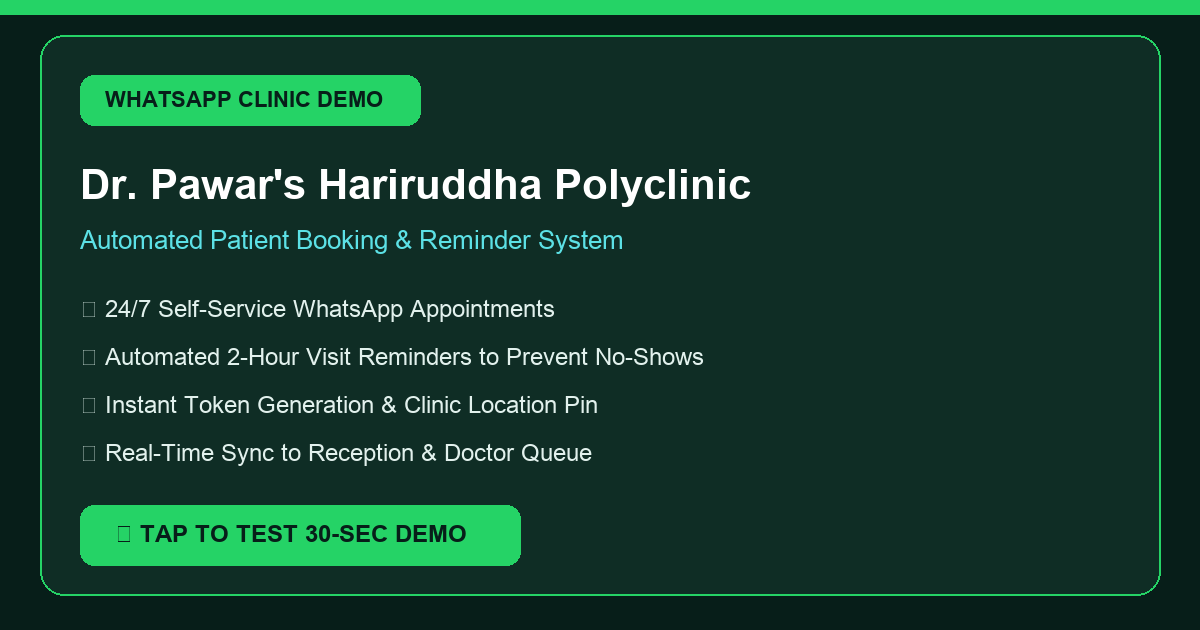
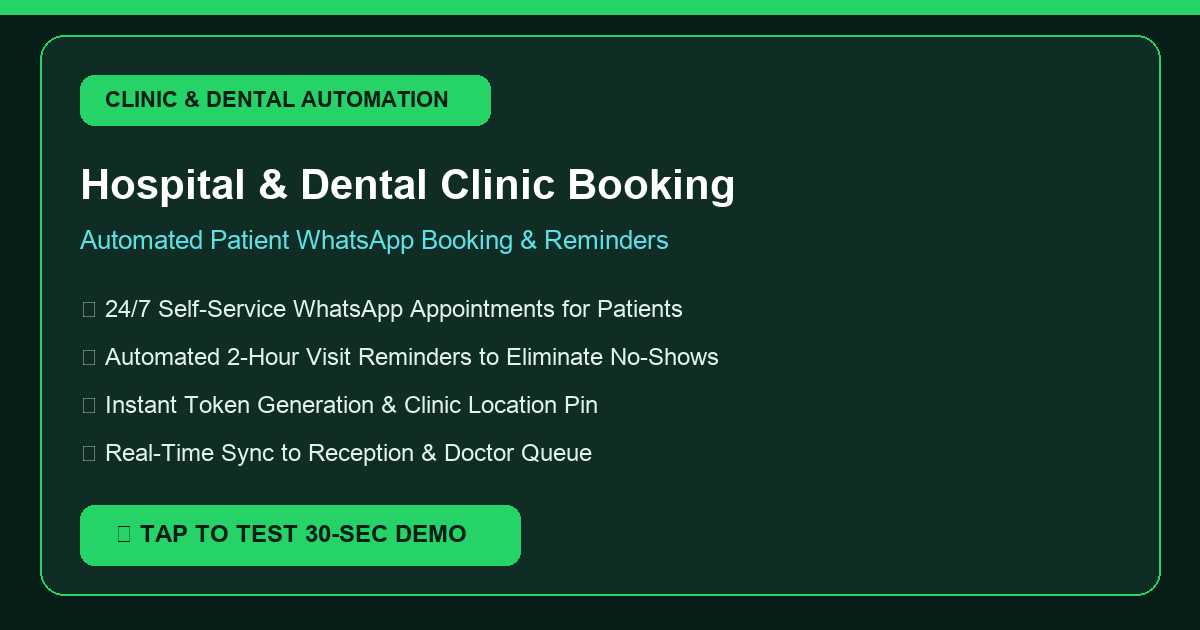
feat: make appointment demo generic for dental & healthcare clinics with dynamic name support

diff --git a/index.html b/index.html
@@ -3,17 +3,16 @@
 <head>
   <meta charset="UTF-8" />
   <meta name="viewport" content="width=device-width, initial-scale=1.0, maximum-scale=1.0, user-scalable=no" />
-  <title>Dr. Pawar's Hariruddha Polyclinic — WhatsApp Appointment Automation Demo</title>
+  <title>City Dental & Healthcare Clinic — WhatsApp Appointment Automation Demo</title>
   
   <!-- WhatsApp & Social Link Preview Metadata -->
-  <meta name="title" content="Dr. Pawar's Hariruddha Polyclinic — Automated WhatsApp Booking Demo" />
+  <meta name="title" content="Clinic & Dental WhatsApp Appointment Automation Demo" />
   <meta name="description" content="Interactive 30-second preview: See how 24/7 patient booking, token generation, and automated visit reminders work on WhatsApp." />
   <meta property="og:type" content="website" />
-  <meta property="og:title" content="Dr. Pawar's Hariruddha Polyclinic — WhatsApp Appointment Automation" />
+  <meta property="og:title" content="Clinic & Dental WhatsApp Appointment Automation" />
   <meta property="og:description" content="Instant patient booking, token generation, and no-show reminder alerts on WhatsApp. Tap to test live demo." />
-  <meta property="og:image" content="https://rohitjaiswar123.github.io/client-demo/preview.png" />
-  <meta property="og:url" content="https://rohitjaiswar123.github.io/client-demo/" />
-  <meta property="og:site_name" content="Hariruddha Polyclinic" />
+  <meta property="og:image" content="preview.png" />
+  <meta property="og:site_name" content="Smart Clinic & Dental Care" />
   <meta name="theme-color" content="#075e54" />
 
   <!-- Tailwind CSS via CDN -->
@@ -119,9 +118,9 @@
         <div>
           <div class="flex items-center gap-1.5">
             <h1 class="text-xs font-semibold uppercase tracking-wider text-emerald-400">Live Client Preview</h1>
-            <span class="bg-emerald-500/20 text-emerald-300 text-[10px] px-1.5 py-0.5 rounded-full font-medium">Interactive</span>
+            <span class="bg-emerald-500/20 text-emerald-300 text-[10px] px-1.5 py-0.5 rounded-full font-medium">Interactive Demo</span>
           </div>
-          <p class="text-sm font-bold text-slate-100">Dr. Pawar's Hariruddha Polyclinic</p>
+          <p id="topClinicName" class="text-sm font-bold text-slate-100">City Dental & Healthcare Clinic</p>
         </div>
       </div>
 
@@ -164,9 +163,9 @@
           <span class="font-semibold text-slate-200">WhatsApp • Just now</span>
           <span class="text-[10px] text-emerald-400 font-medium">Automatic Alert</span>
         </div>
-        <p class="text-xs font-bold text-white truncate">Dr. Pawar's Hariruddha Polyclinic</p>
+        <p id="notifClinicName" class="text-xs font-bold text-white truncate">City Dental & Healthcare Clinic</p>
         <p class="text-[11px] text-slate-300 line-clamp-2 mt-0.5">
-          ⏰ <strong>Reminder:</strong> Your appointment with Dr. Pawar is scheduled in 2 hours (Today at 6:30 PM, Token #A-14).
+          ⏰ <strong>Reminder:</strong> Your appointment is scheduled in 2 hours (Today at 6:30 PM, Token #A-14).
         </p>
       </div>
       <button onclick="closeNotification()" class="text-slate-400 hover:text-white">
@@ -191,8 +190,8 @@
           
           <!-- Clinic Avatar -->
           <div class="relative">
-            <div class="w-10 h-10 rounded-full bg-emerald-100 border-2 border-white/80 flex items-center justify-center text-emerald-800 font-bold text-base shadow-sm">
-              HP
+            <div id="avatarInitials" class="w-10 h-10 rounded-full bg-emerald-100 border-2 border-white/80 flex items-center justify-center text-emerald-800 font-bold text-sm shadow-sm">
+              CD
             </div>
             <span class="absolute bottom-0 right-0 w-3 h-3 bg-emerald-400 border-2 border-[#075E54] rounded-full"></span>
           </div>
@@ -200,7 +199,7 @@
           <!-- Clinic Details -->
           <div class="leading-tight">
             <div class="flex items-center gap-1">
-              <h2 class="text-sm font-semibold tracking-wide truncate max-w-[190px]">Dr. Pawar's Polyclinic</h2>
+              <h2 id="waHeaderTitle" class="text-sm font-semibold tracking-wide truncate max-w-[190px]">City Dental & Clinic</h2>
               <!-- Verified green badge -->
               <span class="text-emerald-300" title="Verified WhatsApp Business Account">
                 <i data-lucide="badge-check" class="w-4 h-4 fill-emerald-500 text-white"></i>
@@ -245,13 +244,13 @@
         <div class="wa-bubble-in max-w-[88%] p-3 self-start">
           <div class="flex items-center gap-1.5 mb-1 text-[11px] font-bold text-emerald-800">
             <i data-lucide="building-2" class="w-3.5 h-3.5"></i>
-            <span>DR. PAWAR'S HARIRUDDHA POLYCLINIC</span>
+            <span id="welcomeClinicBanner">CITY DENTAL & HEALTHCARE CLINIC</span>
           </div>
           <p class="text-xs text-slate-800 leading-relaxed">
             Namaste! 🙏 Welcome to our automated appointment and patient care desk.
           </p>
           <p class="text-xs text-slate-700 mt-1.5 leading-relaxed">
-            You can book consultations, view timings, check token status, or get clinic directions anytime 24/7.
+            You can book dental checkups, consultations, view timings, check token status, or get clinic directions anytime 24/7.
           </p>
 
           <!-- Interactive Action Buttons -->
@@ -275,7 +274,7 @@
             <button onclick="quickAction('doctors')" class="w-full text-left text-xs font-semibold py-1.5 px-2.5 rounded-lg bg-slate-50 hover:bg-slate-100 text-slate-700 flex items-center justify-between border border-slate-200 transition">
               <span class="flex items-center gap-1.5">
                 <i data-lucide="stethoscope" class="w-3.5 h-3.5"></i>
-                Consultant Doctors
+                Doctors & Specialists
               </span>
               <i data-lucide="chevron-right" class="w-3.5 h-3.5"></i>
             </button>
@@ -353,7 +352,7 @@
             </div>
             <div>
               <h2 class="text-sm font-bold">Doctor & Reception Portal</h2>
-              <p class="text-[11px] text-slate-400">Dr. Pawar's Hariruddha Polyclinic</p>
+              <p id="deskClinicSub" class="text-[11px] text-slate-400">City Dental & Healthcare Clinic</p>
             </div>
           </div>
           <button onclick="toggleView()" class="text-xs bg-slate-800 hover:bg-slate-700 border border-slate-700 px-2.5 py-1.5 rounded-lg text-emerald-400 font-medium flex items-center gap-1 transition">
@@ -412,7 +411,7 @@
               </div>
               <div>
                 <p class="text-xs font-bold text-slate-900">Rajesh Sharma</p>
-                <p class="text-[11px] text-slate-500">Dr. Pawar • 05:30 PM (Evening)</p>
+                <p class="text-[11px] text-slate-500">Dental Checkup & Scaling • 05:30 PM</p>
               </div>
             </div>
             <div class="text-right">
@@ -432,7 +431,7 @@
               </div>
               <div>
                 <p class="text-xs font-bold text-slate-900">Sunita Patil</p>
-                <p class="text-[11px] text-slate-500">Child Health & Fever • 06:00 PM</p>
+                <p class="text-[11px] text-slate-500">General Physician Consultation • 06:00 PM</p>
               </div>
             </div>
             <div class="text-right">
@@ -448,11 +447,11 @@
 
         </div>
 
-        <!-- Value Proposition Notice for Dr. Pawar -->
+        <!-- Value Proposition Notice for Clinic & Dental Owners -->
         <div class="mt-auto bg-emerald-50 border border-emerald-200 rounded-xl p-3 text-xs text-emerald-900 leading-relaxed">
           <div class="font-bold flex items-center gap-1.5 text-emerald-800 mb-1">
             <i data-lucide="check-circle" class="w-4 h-4 text-emerald-600"></i>
-            How this saves clinic staff 2–3 hours every day:
+            How this saves clinic & dental staff 2–3 hours every day:
           </div>
           <ul class="list-disc list-inside space-y-1 text-[11px] text-emerald-800">
             <li><strong>Zero manual calls:</strong> Patients select available slots on WhatsApp.</li>
@@ -466,17 +465,17 @@
 
   </main>
 
-  <!-- Doctor Pitch Footer Banner -->
+  <!-- Pitch Footer Banner -->
   <footer class="w-full max-w-md sm:max-w-xl mt-3 sm:mt-4 px-3 pb-4 text-center">
     <div class="bg-slate-800/80 border border-slate-700/60 rounded-xl p-3 text-xs text-slate-300 flex flex-col sm:flex-row items-center justify-between gap-2.5">
       <div class="text-left">
-        <span class="text-emerald-400 font-semibold">Custom built for Dr. Pawar's Polyclinic</span>
+        <span class="text-emerald-400 font-semibold">Clinic & Dental Appointment Automation</span>
         <p class="text-[11px] text-slate-400">Ready to activate on your existing clinic WhatsApp number.</p>
       </div>
-      <a href="https://wa.me/918454805311?text=Hi%20Dr.%20Pawar,%20sharing%20the%20automation%20preview%20link." target="_blank" class="bg-[#25D366] hover:bg-[#20ba59] text-slate-900 font-bold px-3.5 py-1.5 rounded-lg text-xs flex items-center gap-1.5 transition shadow-sm shrink-0">
-        <i data-lucide="message-square" class="w-3.5 h-3.5 fill-slate-900"></i>
-        <span>Share Preview Link</span>
-      </a>
+      <button onclick="shareDemoLink()" class="bg-[#25D366] hover:bg-[#20ba59] text-slate-900 font-bold px-3.5 py-1.5 rounded-lg text-xs flex items-center gap-1.5 transition shadow-sm shrink-0">
+        <i data-lucide="share-2" class="w-3.5 h-3.5"></i>
+        <span>Share Demo Link</span>
+      </button>
     </div>
   </footer>
 
@@ -485,13 +484,29 @@
     // Initialize icons
     lucide.createIcons();
 
+    // Support dynamic custom clinic name via ?name= or ?clinic= URL param
+    const urlParams = new URLSearchParams(window.location.search);
+    const customClinicName = urlParams.get('name') || urlParams.get('clinic') || 'City Dental & Healthcare Clinic';
+    const customShortName = urlParams.get('short') || (customClinicName.length > 22 ? customClinicName.substring(0, 20) + '...' : customClinicName);
+
+    // Apply custom or default generic name
+    document.getElementById('topClinicName').innerText = customClinicName;
+    document.getElementById('waHeaderTitle').innerText = customShortName;
+    document.getElementById('welcomeClinicBanner').innerText = customClinicName.toUpperCase();
+    document.getElementById('deskClinicSub').innerText = customClinicName;
+    document.getElementById('notifClinicName').innerText = customClinicName;
+
+    // Set avatar initials
+    const initials = customClinicName.split(' ').map(w => w[0]).filter(Boolean).slice(0, 2).join('').toUpperCase() || 'CD';
+    document.getElementById('avatarInitials').innerText = initials;
+
     // Set initial timestamp
     const now = new Date();
     const timeString = now.toLocaleTimeString([], { hour: '2-digit', minute: '2-digit' });
     document.getElementById('initialTime').innerText = timeString;
 
     let bookingState = {
-      doctor: 'Dr. Pawar (Senior Consultant)',
+      doctor: 'Dental Surgeon / Dentist',
       day: 'Today (Evening)',
       slot: '06:30 PM',
       patientName: 'Ramesh Kadam',
@@ -542,14 +557,14 @@
       input.value = '';
 
       const lower = text.toLowerCase();
-      if (lower.includes('book') || lower.includes('appointment') || lower.includes('doctor') || lower.includes('slot')) {
+      if (lower.includes('book') || lower.includes('appointment') || lower.includes('doctor') || lower.includes('dentist') || lower.includes('slot')) {
         setTimeout(() => startBookingFlow(), 700);
       } else if (lower.includes('time') || lower.includes('timing') || lower.includes('open') || lower.includes('address') || lower.includes('location')) {
         setTimeout(() => showTimings(), 700);
       } else {
         showBotTyping(() => {
           appendBotMessage(`
-            Thank you for reaching out to Dr. Pawar's Hariruddha Polyclinic!
+            Thank you for reaching out to <strong>${customClinicName}</strong>!
             <br/><br/>
             Would you like to:
             <br/>• <strong>Book an appointment</strong> (type 1)
@@ -634,16 +649,16 @@
       lucide.createIcons();
     }
 
-    // Step 1: Booking - Select Doctor
+    // Step 1: Booking - Select Doctor / Service
     function startBookingFlow() {
       appendUserMessage("Book an Appointment");
       showBotTyping(() => {
         appendBotMessage(`
-          <strong>Step 1 of 3:</strong> Which consultant or service do you need?
+          <strong>Step 1 of 3:</strong> Which service or consultant do you need?
         `, [
-          { text: "👨⚕ Dr. Pawar (General Medicine & Consultant)", action: "selectDoctor('Dr. Pawar')" },
-          { text: "👶 Pediatric & Child Care", action: "selectDoctor('Pediatric / Child Care')" },
-          { text: "🩸 Lab Tests / Routine Checkup", action: "selectDoctor('General Checkup')" }
+          { text: "🦷 Dental Care / Dentist (Cleaning, Pain, Braces)", action: "selectDoctor('Senior Dental Surgeon')" },
+          { text: "👨⚕ General Physician (Consultation & Fever)", action: "selectDoctor('Consulting Physician')" },
+          { text: "🩺 Routine Health Checkup & Specialist", action: "selectDoctor('Specialist Care')" }
         ]);
       });
     }
@@ -676,7 +691,7 @@
           <div class="bg-slate-50 p-2.5 rounded-lg border border-slate-200 mt-2 text-slate-700">
             <div>👤 <strong>Patient:</strong> Ramesh Kadam</div>
             <div>📱 <strong>Mobile:</strong> +91 98201 12345</div>
-            <div>🏥 <strong>Doctor:</strong> ${bookingState.doctor}</div>
+            <div>🏥 <strong>Doctor/Service:</strong> ${bookingState.doctor}</div>
           </div>
         `, [
           { text: "✅ Confirm & Generate Token", action: "confirmBooking()" },
@@ -698,7 +713,7 @@
             <span>APPOINTMENT CONFIRMED!</span>
           </div>
           <p class="text-[11px] text-slate-600 mb-2">
-            Your appointment has been registered at Dr. Pawar's Hariruddha Polyclinic.
+            Your appointment has been registered at <strong>${customClinicName}</strong>.
           </p>
 
           <!-- Ticket Box -->
@@ -716,7 +731,7 @@
 
             <div class="space-y-1 text-xs">
               <div class="flex justify-between">
-                <span class="text-slate-500">Doctor:</span>
+                <span class="text-slate-500">Service:</span>
                 <span class="font-semibold text-slate-800">${bookingState.doctor}</span>
               </div>
               <div class="flex justify-between">
@@ -731,7 +746,7 @@
 
             <div class="mt-2.5 pt-2 border-t border-emerald-200 text-[10px] text-slate-600 flex items-center gap-1">
               <i data-lucide="map-pin" class="w-3.5 h-3.5 text-emerald-600 shrink-0"></i>
-              <span>Hariruddha Polyclinic (Near Station / Main Road)</span>
+              <span>${customClinicName} (Main Road, City Centre)</span>
             </div>
           </div>
 
@@ -753,15 +768,15 @@
       appendUserMessage("Clinic Timings & Location");
       showBotTyping(() => {
         appendBotMessage(`
-          <strong>🏥 DR. PAWAR'S HARIRUDDHA POLYCLINIC</strong>
+          <strong>🏥 ${customClinicName.toUpperCase()}</strong>
           <br/><br/>
-          ⏰ <strong>OPD Timings:</strong><br/>
+          ⏰ <strong>Consultation & OPD Timings:</strong><br/>
           • <strong>Morning:</strong> 10:00 AM – 01:30 PM<br/>
           • <strong>Evening:</strong> 06:00 PM – 09:30 PM<br/>
-          • <em>Sunday: 10:00 AM – 01:00 PM (Emergency on call)</em>
+          • <em>Sunday: 10:00 AM – 01:00 PM (Emergency & Dental on call)</em>
           <br/><br/>
           📍 <strong>Location:</strong><br/>
-          Hariruddha Polyclinic, Main Road.<br/>
+          ${customClinicName}, Main Road, Near Metro / Station.<br/>
           <span class="text-emerald-700 underline font-medium">📍 Open in Google Maps</span>
         `, [
           { text: "📅 Book a Slot Now", action: "quickAction('book')" }
@@ -771,16 +786,17 @@
 
     // Show Doctors
     function showDoctors() {
-      appendUserMessage("Consultant Doctors");
+      appendUserMessage("Doctors & Specialists");
       showBotTyping(() => {
         appendBotMessage(`
-          <strong>Our Medical Team:</strong><br/><br/>
-          👨⚕ <strong>Dr. Pawar</strong> (Consulting Physician & Family Medicine)<br/>
-          • Mon–Sat: 10:30 AM – 1:00 PM & 6:30 PM – 9:00 PM<br/><br/>
-          👩⚕ <strong>Visiting Specialists:</strong><br/>
-          • Pediatrics (Child Health & Vaccinations)<br/>
-          • Orthopedic & Joint Care (By Appointment)<br/>
-          • Pathology & Diagnostic Blood Collection
+          <strong>Our Medical & Dental Team:</strong><br/><br/>
+          🦷 <strong>Dental Care & Surgery:</strong><br/>
+          • Teeth Whitening, Root Canal, Orthodontic Aligners & Braces<br/>
+          • Mon–Sat: 10:30 AM – 1:30 PM & 6:00 PM – 9:00 PM<br/><br/>
+          👨⚕ <strong>Consulting Physician & General Medicine:</strong><br/>
+          • Fever, Diabetes, BP & Routine Checkups<br/><br/>
+          👩⚕ <strong>Diagnostic & Preventive Care:</strong><br/>
+          • Blood Collection & Preventative Screening
         `, [
           { text: "📅 Book Consultation", action: "quickAction('book')" }
         ]);
@@ -792,10 +808,10 @@
       appendUserMessage("Speak to Reception");
       showBotTyping(() => {
         appendBotMessage(`
-          📞 You can contact our reception directly at:<br/>
-          <strong>+91 84548 05311</strong>
+          📞 <strong>Clinic Front Desk:</strong><br/>
+          Staff is available during clinic hours for inquiries.
           <br/><br/>
-          Front-desk staff is available during clinic hours. For immediate appointment slot booking, you can continue right here 24/7!
+          For instant appointments and token generation without waiting, you can complete your booking right here 24/7!
         `, [
           { text: "📅 Book via WhatsApp Now", action: "quickAction('book')" }
         ]);
@@ -813,13 +829,13 @@
         appendBotMessage(`
           🔔 <strong>AUTOMATED VISIT REMINDER (2 Hours Prior)</strong>
           <br/><br/>
-          Dear Ramesh ji, this is a reminder for your appointment at <strong>Dr. Pawar's Hariruddha Polyclinic</strong>:
+          Dear Ramesh ji, this is a reminder for your upcoming appointment at <strong>${customClinicName}</strong>:
           <br/><br/>
           • <strong>Token:</strong> #A-14<br/>
           • <strong>Time:</strong> Today at 06:30 PM<br/>
-          • <strong>Doctor:</strong> Dr. Pawar<br/>
+          • <strong>Service:</strong> ${bookingState.doctor}<br/>
           <br/>
-          Please bring your previous medical files/prescriptions. If you need to reschedule, tap below:
+          Please reach 10 minutes prior. If you need to reschedule, tap below:
         `, [
           { text: "👍 Confirmed, I am coming", action: "confirmArrival()" },
           { text: "🔄 Reschedule Slot", action: "startBookingFlow()" }
@@ -835,7 +851,7 @@
       appendUserMessage("Confirmed, I am coming");
       showBotTyping(() => {
         appendBotMessage(`
-          Thank you for confirming! Your token <strong>#A-14</strong> is marked as active in Dr. Pawar's clinic queue. See you at 06:30 PM! 🙏
+          Thank you for confirming! Your token <strong>#A-14</strong> is marked as active in the clinic queue. See you at 06:30 PM! 🙏
         `);
       });
     }
@@ -861,7 +877,7 @@
                 Ramesh Kadam
                 <span class="bg-emerald-500 text-white text-[9px] px-1.5 py-0.2 rounded font-medium">Just Booked via WhatsApp</span>
               </p>
-              <p class="text-[11px] text-slate-600">Dr. Pawar • 06:30 PM (Today)</p>
+              <p class="text-[11px] text-slate-600">${bookingState.doctor} • 06:30 PM (Today)</p>
             </div>
           </div>
           <div class="text-right">
@@ -877,7 +893,19 @@
     }
 
     function simulateCall() {
-      alert("In production, this directly dials Dr. Pawar's Polyclinic front desk at +91 84548 05311.");
+      alert("In production, this directly dials your clinic front desk number.");
+    }
+
+    function shareDemoLink() {
+      if (navigator.share) {
+        navigator.share({
+          title: "Clinic & Dental Appointment WhatsApp Automation Demo",
+          url: window.location.href
+        }).catch(() => {});
+      } else {
+        navigator.clipboard.writeText(window.location.href);
+        alert("Demo link copied to clipboard!");
+      }
     }
 
     function resetChat() {
